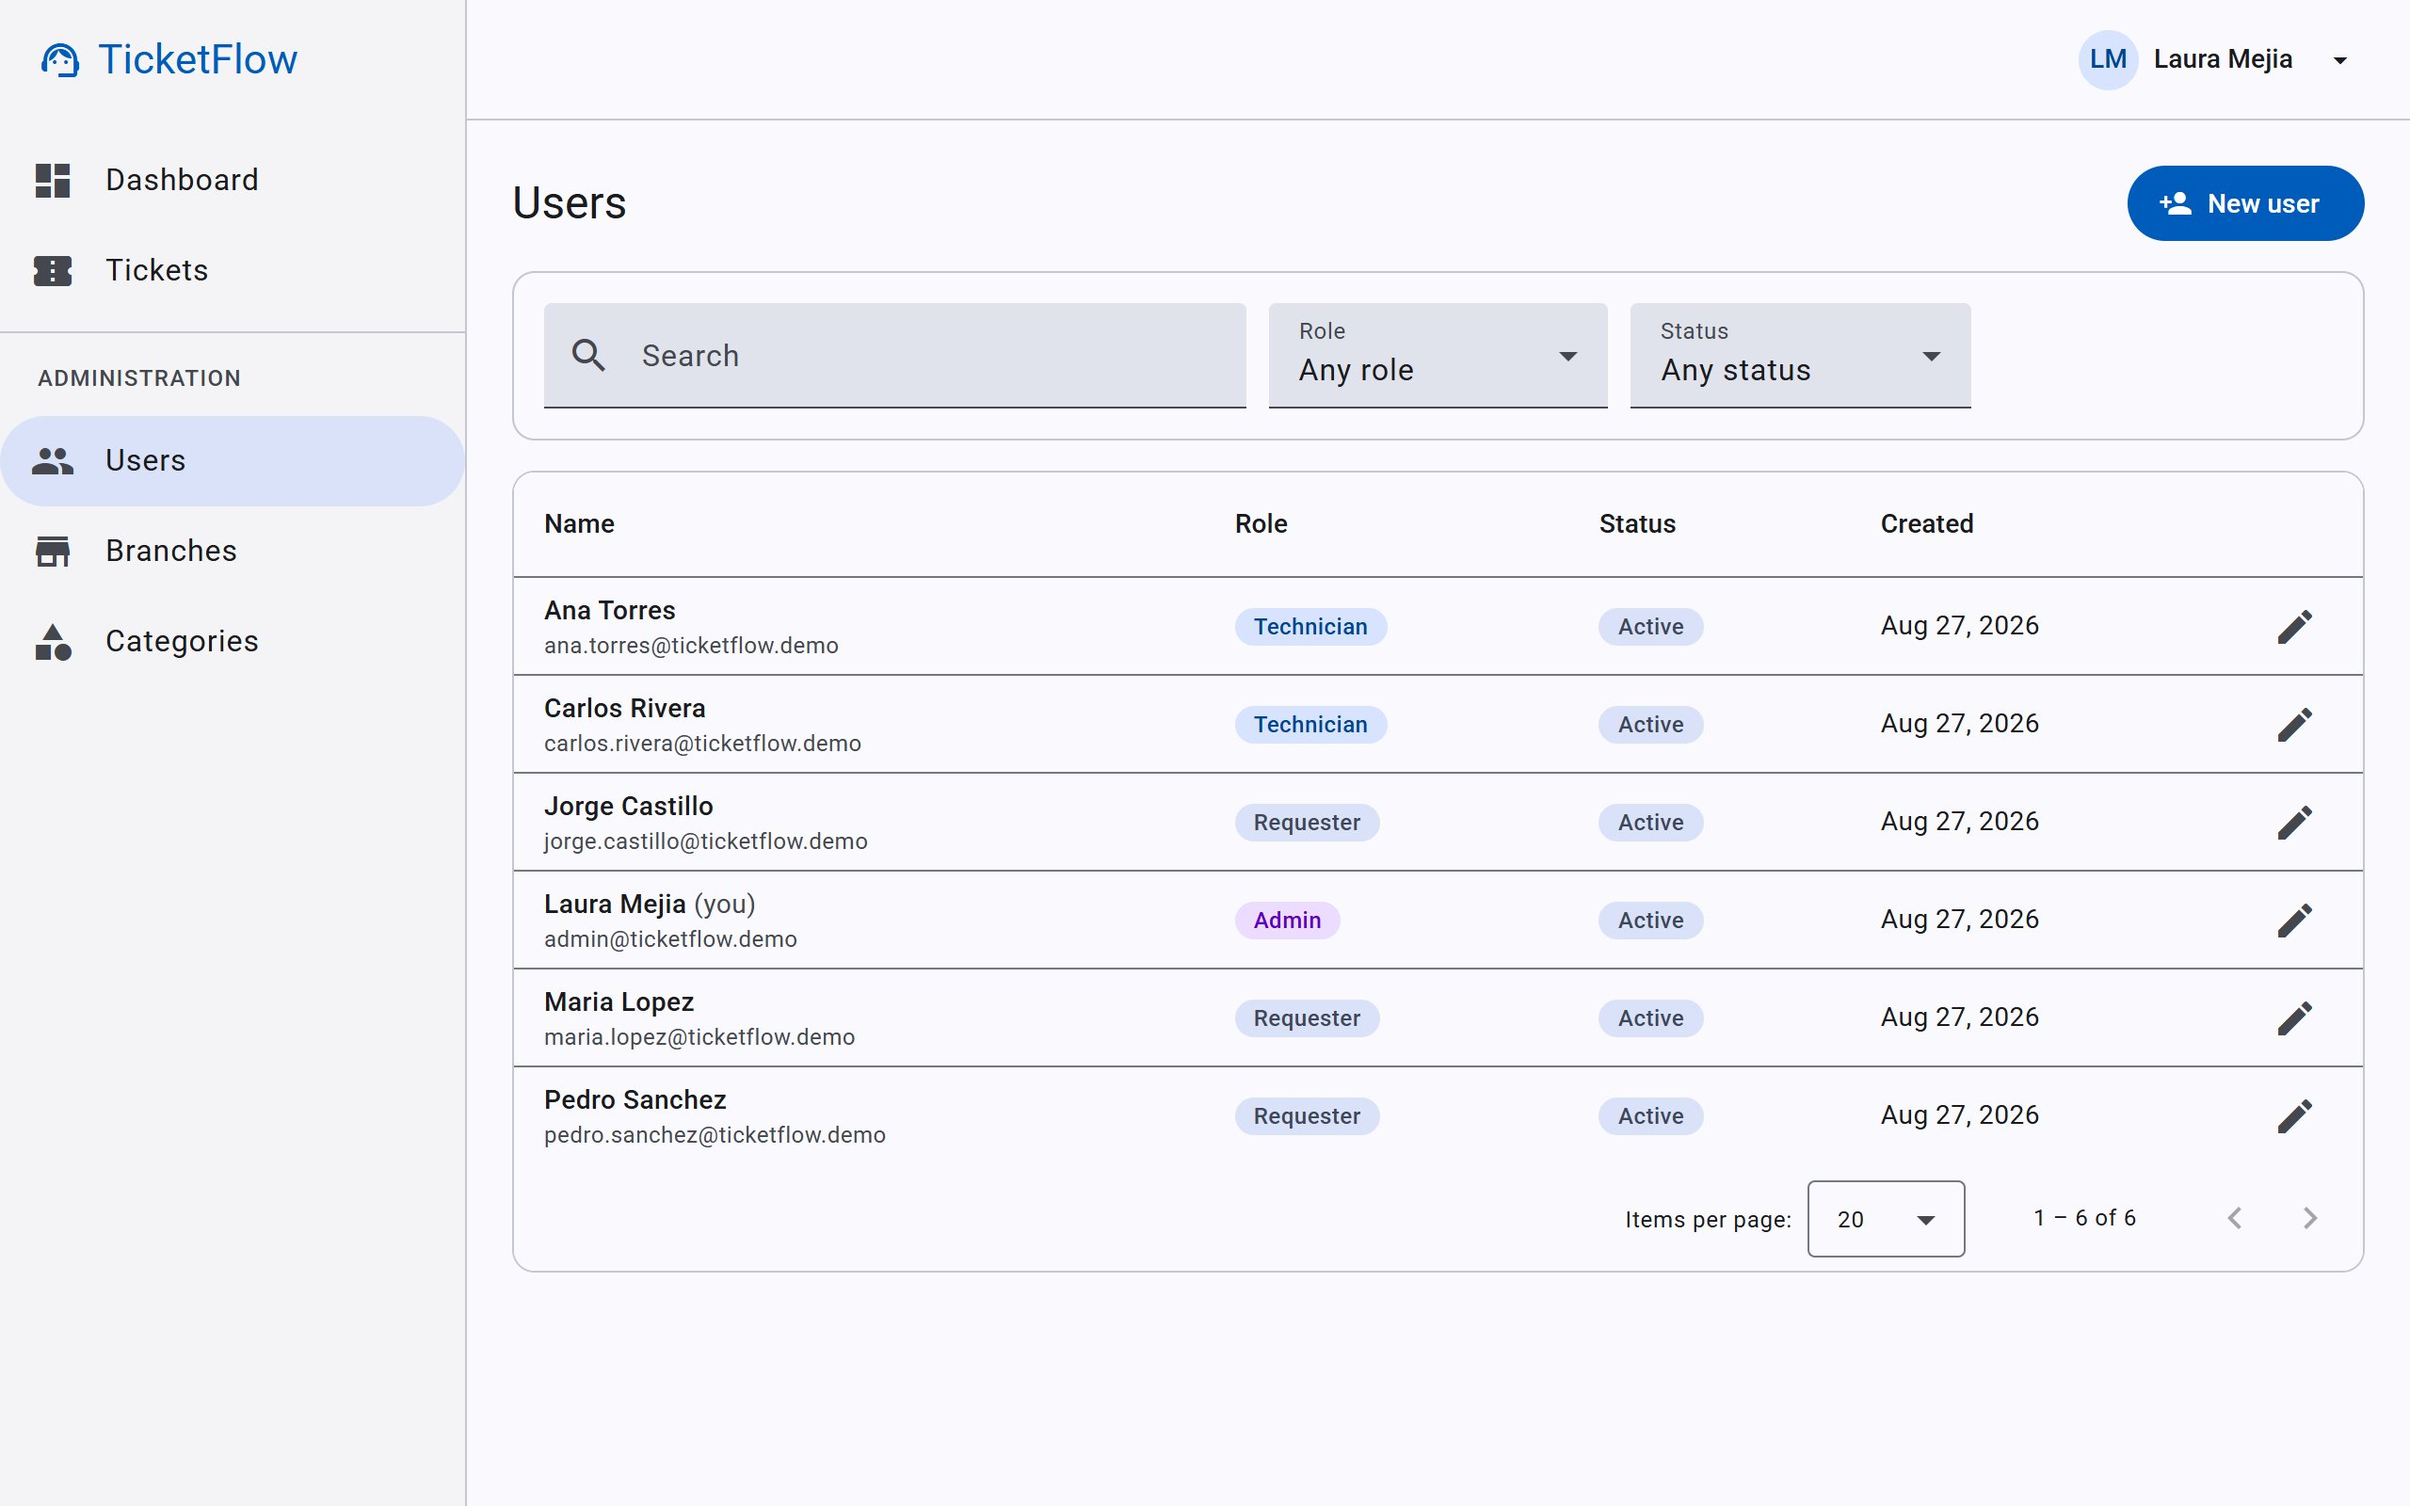
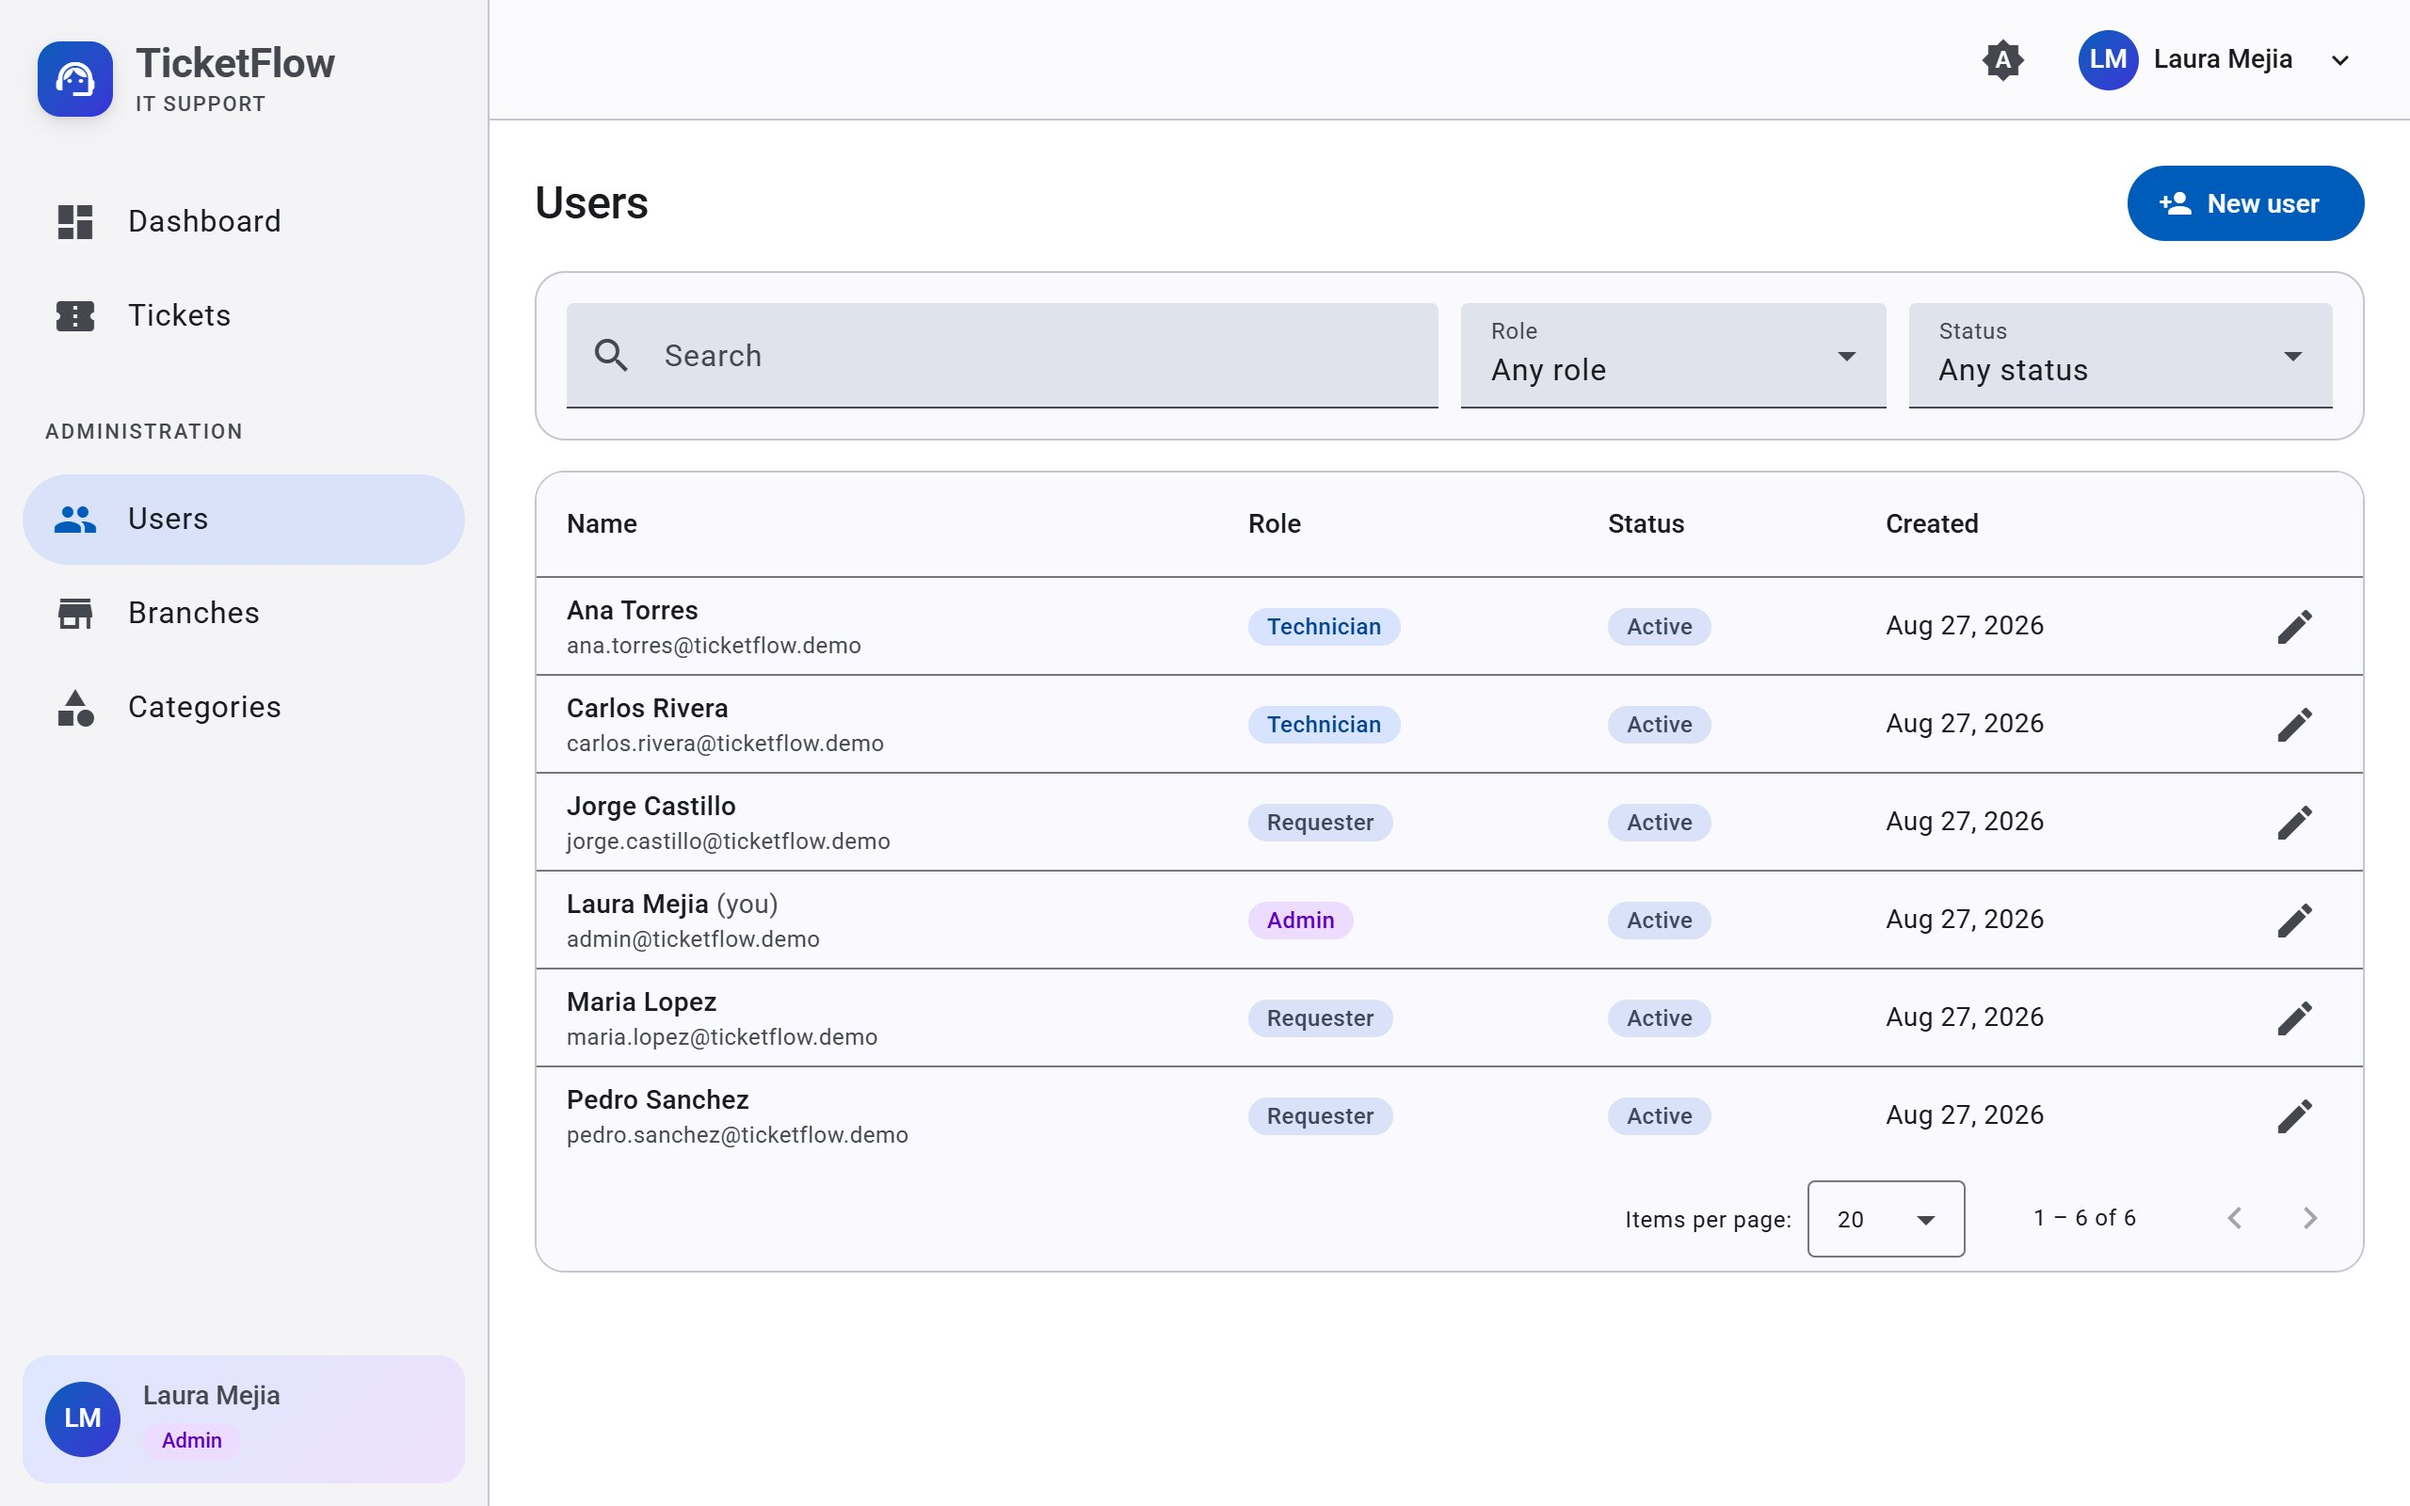
docs: update screenshots with the new design and dark mode

diff --git a/README.md b/README.md
@@ -13,6 +13,8 @@ work on them through a defined workflow, and admins manage users, branches and c
 | ![Dashboard with key figures and charts](docs/screenshots/dashboard.jpg) | ![Ticket list with filters](docs/screenshots/ticket-list.jpg) |
 | **Ticket detail** | **User administration** |
 | ![Ticket detail with actions, comments and history](docs/screenshots/ticket-detail.jpg) | ![User administration](docs/screenshots/admin-users.jpg) |
+| **Dark mode** | **Dark mode: ticket detail** |
+| ![Dashboard in dark mode](docs/screenshots/dashboard-dark.jpg) | ![Ticket detail in dark mode](docs/screenshots/ticket-detail-dark.jpg) |
 
 <p align="center">
   <img src="docs/screenshots/mobile-tickets.jpg" alt="Ticket list on a phone" width="260">
@@ -272,6 +274,10 @@ What is in place:
   when unused) and categories (create, edit, delete when unused). API errors such as duplicate names
   appear inside the dialog.
 - Every screen handles **loading, empty and error states** (with "Try again"). Every page is lazy-loaded.
+- **Design:** light and dark themes (follows the system, or switch with the toolbar button; the choice is
+  remembered), smooth page transitions (View Transitions API), shimmering loading skeletons, cards and rows
+  that cascade in, KPI numbers that count up, chart bars that grow, and a split sign-in page with an animated
+  background. Every animation is switched off when the system asks for reduced motion.
 
 ### Postman collection
 
@@ -488,6 +494,11 @@ solo color y con el valor escrito en cada fila; al elegir una fila se abren esos
 (solo admin): usuarios (búsqueda, filtros, crear, editar, cambiar contraseña, desactivar; el admin no puede
 bloquearse a sí mismo), sucursales (crear, editar, activar/desactivar, eliminar si no tiene tickets) y
 categorías (crear, editar, eliminar si no se usan).
+
+Diseño: tema claro y oscuro (sigue al sistema o se cambia con el botón de la barra superior y se recuerda),
+transiciones suaves entre páginas, esqueletos de carga animados, tarjetas y filas que entran en cascada, cifras
+que cuentan hacia arriba, barras que crecen y una pantalla de inicio de sesión dividida con fondo animado. Todas las
+animaciones se desactivan si el sistema pide reducir el movimiento.
 
 ### Colección de Postman
 

diff --git a/docs/SECURITY.md b/docs/SECURITY.md
@@ -14,7 +14,7 @@ Every control below is backed by an automated test or a verification step that c
   stack: 98 checks covering every role and screen, on desktop and phone.
 - **API contract checks:** Postman collection, 62 requests / 112 assertions (`docs/postman`).
 - **Accessibility:** axe-core 4.10 with the `wcag2a`, `wcag2aa`, `wcag21a` and `wcag21aa` rule sets
-  on 13 screens × 2 viewports.
+  on 13 screens × 2 viewports × 2 themes.
 - **Dependency scanning:** `dotnet list package --vulnerable --include-transitive` and `npm audit`,
   both also enforced in CI.
 
@@ -59,14 +59,17 @@ Every control below is backed by an automated test or a verification step that c
 ## Accessibility (WCAG 2.1 AA)
 
 - **axe-core: 0 violations** on all 13 screens (sign-in, registration, dashboard, ticket list, detail,
-  create/edit form, users, user dialog, branches, categories, not-found) on desktop and on a phone.
+  create/edit form, users, user dialog, branches, categories, not-found) on desktop and on a phone, in both the
+  **light and dark themes** (52 audits).
 - Keyboard: a **"Skip to main content"** link is the first focusable element (2.4.1); all actions are
   buttons or links reachable with Tab; dialogs trap focus and close with Escape (Angular CDK).
 - Status and priority badges always include text (and an icon for status), never color alone (1.4.1).
 - Charts are real `<table>` elements with captions, readable by screen readers, with the value written on
   every row.
 - Form errors are linked to their fields and announced; loading and result counts use `aria-live`.
-- Page titles per route (2.4.2), `lang` attribute (3.1.1), reduced-motion preference respected.
+- Page titles per route (2.4.2), `lang` attribute (3.1.1).
+- Animations (page transitions, cascades, count-ups, growing bars, background) are short and decorative, and all
+  of them are disabled when the system asks for reduced motion (2.3.3); numbers then appear at their final value.
 - Layout works from 320 px wide without horizontal scrolling (1.4.10 Reflow).
 
 ## Known limitations and production recommendations
